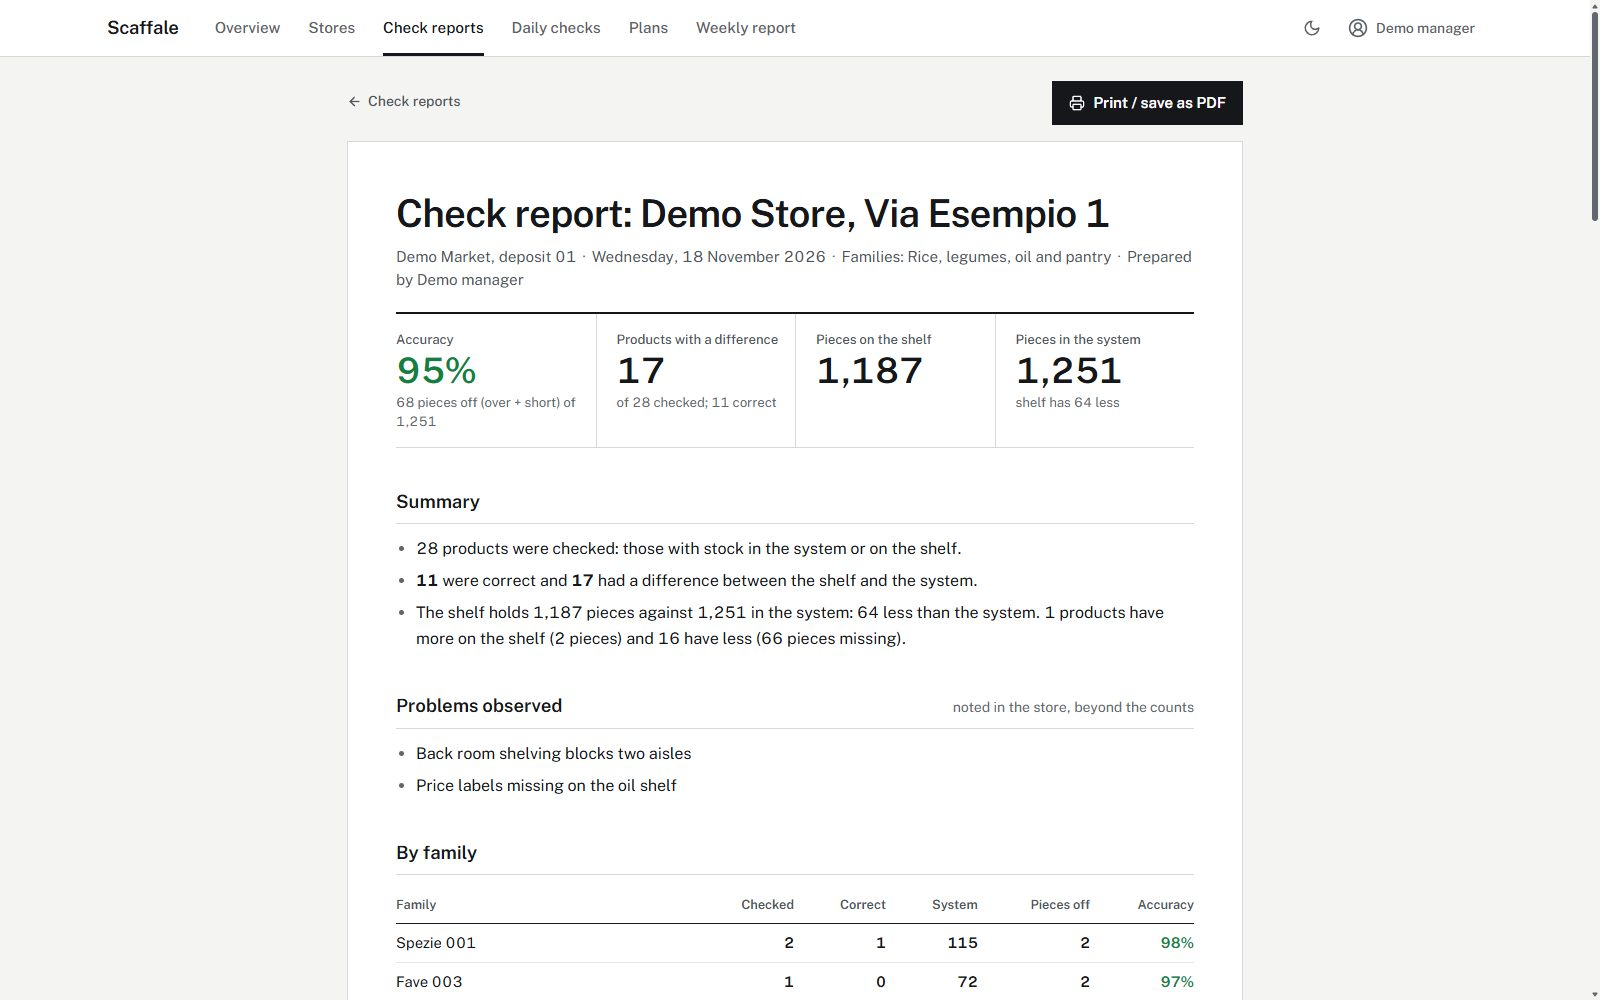
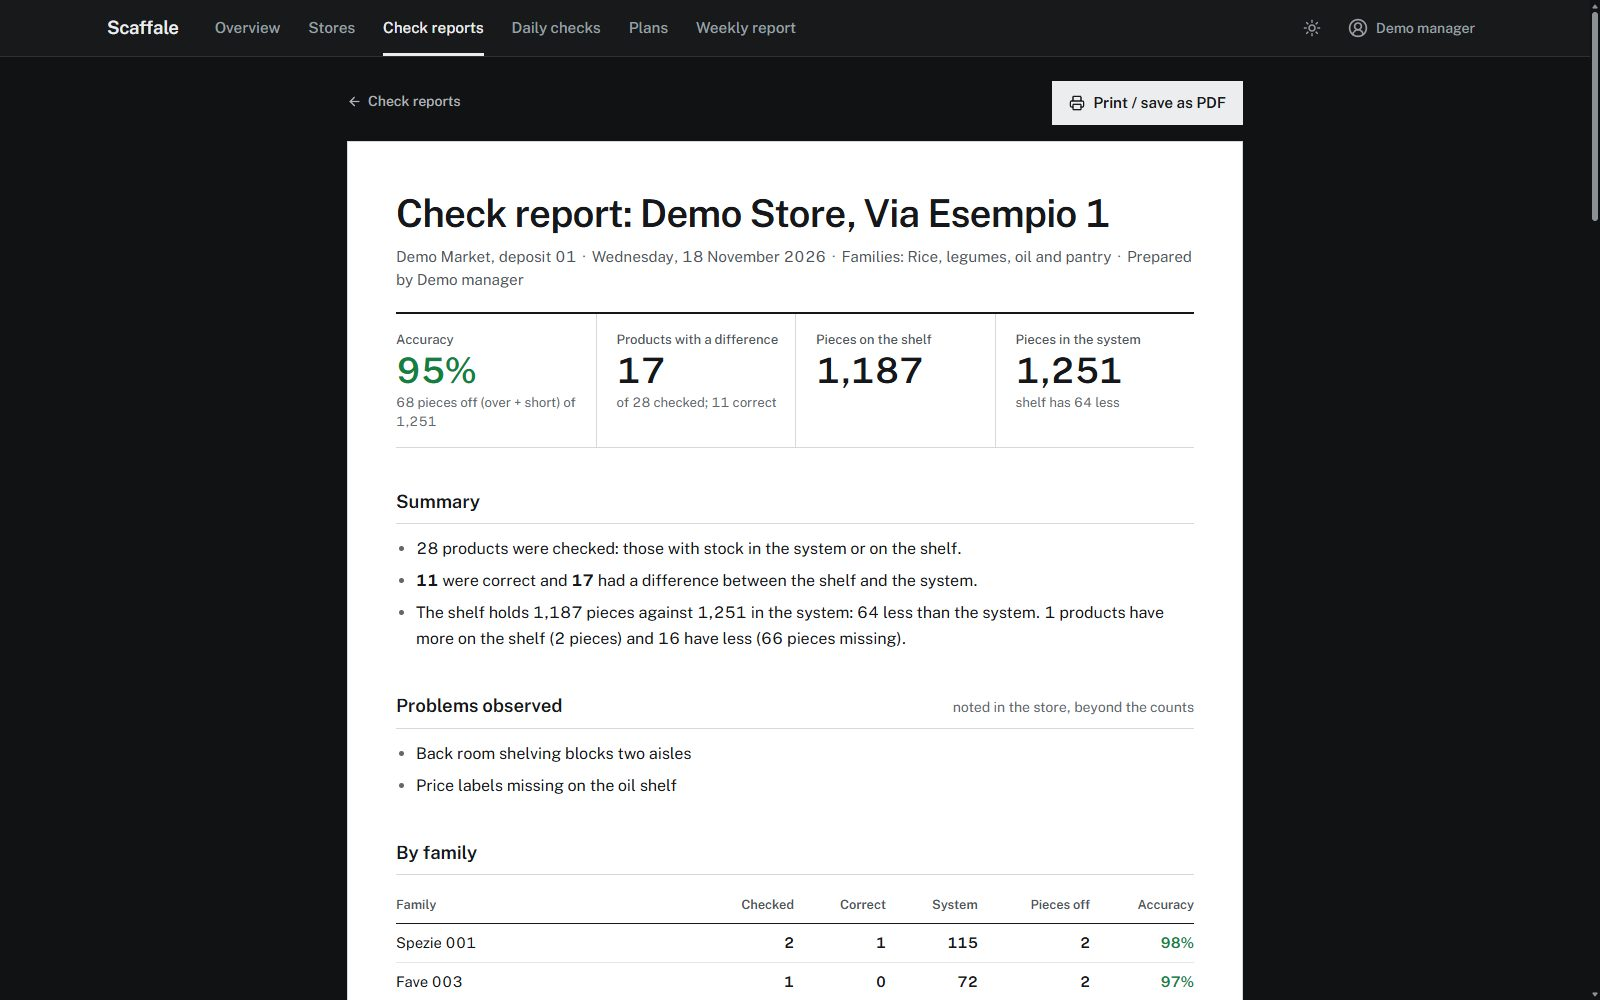
Portfolio: Scaffale in a dark green band with a dark-mode screenshot, next to the other dark projects

diff --git a/index.html b/index.html
@@ -476,7 +476,7 @@ footer{--f-bg:var(--ink);--f-ink:var(--bg);margin-top:clamp(72px,9vw,120px);back
       </div>
     </section>
 
-    <section class="band" id="scaffale" data-enter="mask" style="--b-bg:#F2F0E9;--b-ink:#16241D;--b-mute:#4C5A52;--b-acc:#1E7A4A;--b-on:#FFFFFF;--b-w:700;--b-s:90%">
+    <section class="band" id="scaffale" data-enter="mask" style="--b-bg:#0D1712;--b-ink:#E8F0EA;--b-mute:#A7B8AD;--b-acc:#5CC98A;--b-on:#06140C;--b-w:700;--b-s:90%">
       <div class="wrap">
         <h2 class="band-title"><span class="line"><span>Scaffale</span></span></h2>
         <div class="band-in">
@@ -487,7 +487,7 @@ footer{--f-bg:var(--ink);--f-ink:var(--bg);margin-top:clamp(72px,9vw,120px);back
             <div class="band-links fade d3"><span class="pill quiet">private repo</span><span class="pill quiet">internal tool</span></div>
           </div>
           <figure class="band-shot fade d1">
-            <div class="frame"><div class="bar"><i></i><i></i><i></i><span>Check report, demo data</span></div><img src="img/scaffale.jpg" width="1600" height="1000" alt="Scaffale's check report for a demo store: 95% accuracy, 17 of 28 products with a difference, a summary and the problems noted in the store" loading="lazy"></div>
+            <div class="frame"><div class="bar"><i></i><i></i><i></i><span>Check report, demo data</span></div><img src="img/scaffale.jpg" width="1600" height="1000" alt="Scaffale in dark mode, showing the check report for a demo store: 95% accuracy, 17 of 28 products with a difference, a summary and the problems noted in the store" loading="lazy"></div>
           </figure>
         </div>
       </div>
@@ -793,7 +793,7 @@ var IT = {
   "Next.js 15 · React 19 · TypeScript · node:sqlite · Tailwind v4 · pdf.js (reads the ERP's stock printouts) · ExcelJS · 59 automated tests": "Next.js 15 · React 19 · TypeScript · node:sqlite · Tailwind v4 · pdf.js (legge le stampe giacenze del gestionale) · ExcelJS · 59 test automatici",
   "internal tool": "strumento interno",
   "Check report, demo data": "Report di controllo, dati dimostrativi",
-  "Scaffale's check report for a demo store: 95% accuracy, 17 of 28 products with a difference, a summary and the problems noted in the store": "Il report di controllo di Scaffale per un negozio dimostrativo: accuratezza del 95%, 17 prodotti su 28 con una differenza, un riepilogo e i problemi notati in negozio",
+  "Scaffale in dark mode, showing the check report for a demo store: 95% accuracy, 17 of 28 products with a difference, a summary and the problems noted in the store": "Scaffale in modalità scura, con il report di controllo di un negozio dimostrativo: accuratezza del 95%, 17 prodotti su 28 con una differenza, un riepilogo e i problemi notati in negozio",
   /* Coldbrew */
   "For people who sell to local businesses and want every message to be a good one.": "Per chi vende ad attività locali e vuole che ogni messaggio sia un buon messaggio.",
   "Coldbrew finds and ranks the businesses in a city, then holds every draft for your approval: a linter checks that each message is short, specific and honest. It reads the replies, charts what works, and never sends anything itself. It also helps draft the messages. I designed it, built it and tested it end to end.": "Coldbrew trova e classifica le attività di una città, poi tiene ogni bozza in attesa della tua approvazione: un linter controlla che ogni messaggio sia breve, specifico e onesto. Legge le risposte, mostra cosa funziona e non invia mai nulla da solo. Aiuta anche a scrivere i messaggi. L'ho progettato, costruito e testato end to end.",
